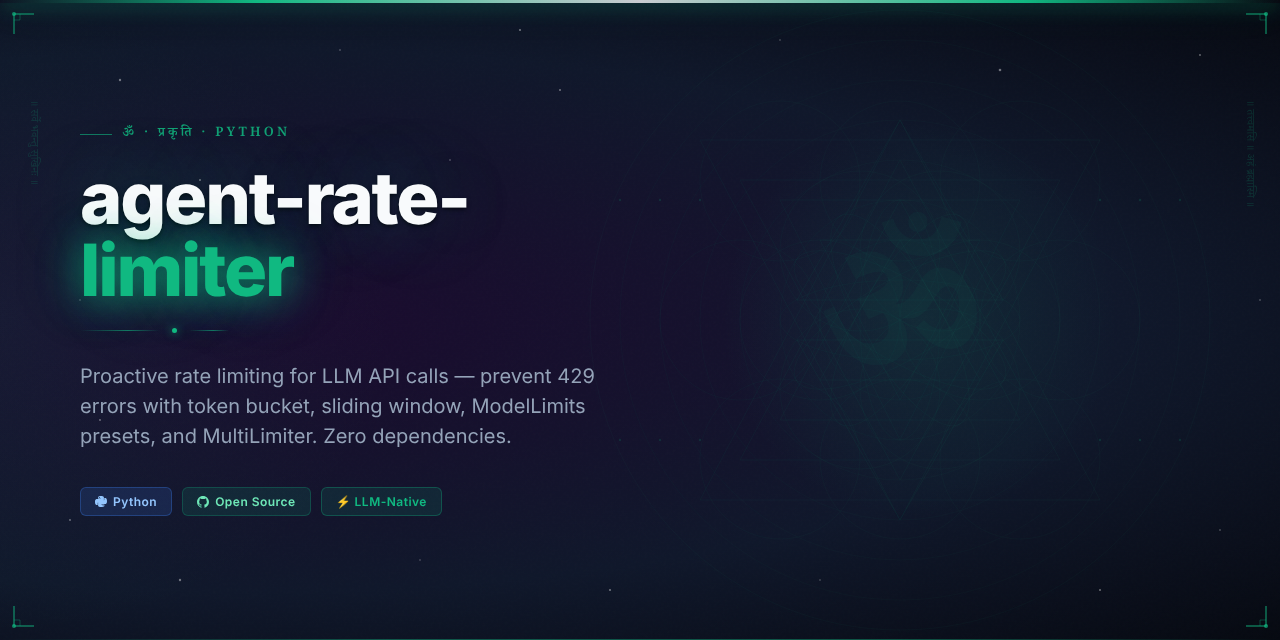
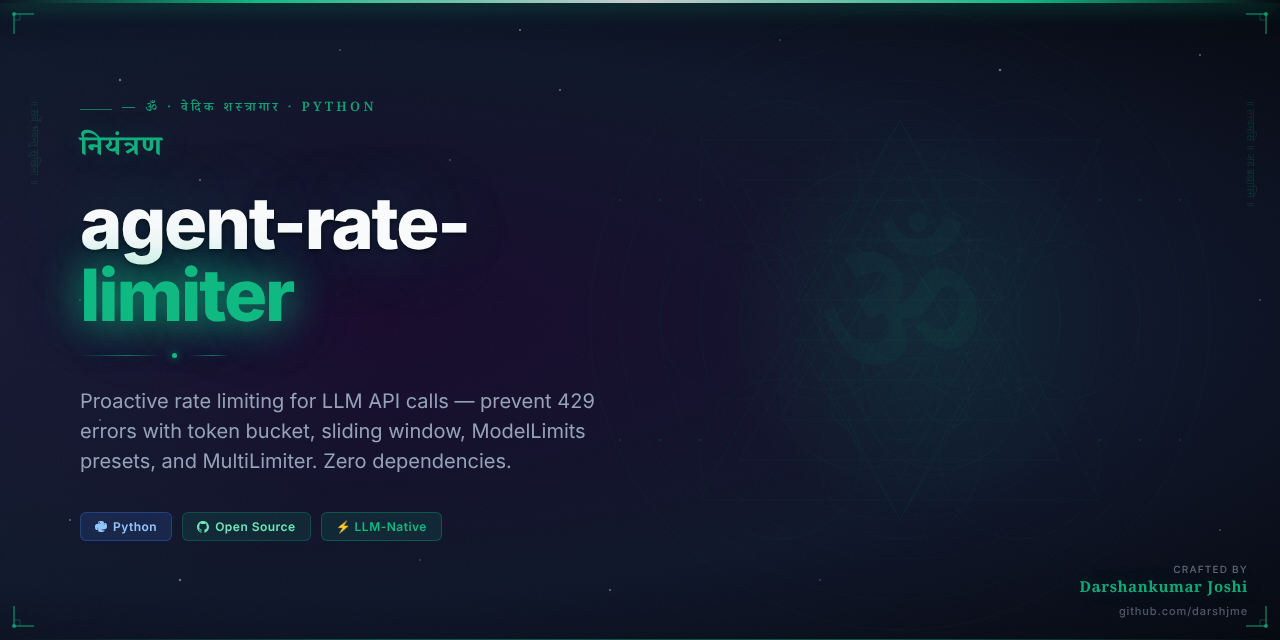
feat: add Vedic Arsenal hero image and updated README
Part of darshjme/arsenal — 100 production-grade Python libraries for LLM agents.
Vedic branding: ancient philosophy meets modern AI engineering.

diff --git a/README.md b/README.md
@@ -1,10 +1,12 @@
 <div align="center">
 
-<img src="assets/agent-rate-limiter-hero.png" alt="agent-rate-limiter — Vedic Arsenal" width="100%" />
+<img src="assets/agent-rate-limiter-hero.png" alt="agent-rate-limiter — Vedic Arsenal by Darshankumar Joshi" width="100%" />
 
 # 🌿 agent-rate-limiter
 
-### *नियंत्रण* — Niyantrana — control over the flow of cosmic energy
+<h3><em>नियंत्रण</em></h3>
+
+> *Niyantrana — control over the flow of cosmic energy*
 
 **Proactive rate limiting for LLM API calls — prevent 429 errors with token bucket, sliding window, ModelLimits presets, and MultiLimiter. Zero dependencies.**
 
@@ -39,6 +41,20 @@ Or clone directly:
 git clone https://github.com/darshjme/agent-rate-limiter.git
 cd agent-rate-limiter
 pip install -e .
+```
+
+## How It Works
+
+```mermaid
+flowchart LR
+    A[API Call] --> B[agent-rate-limiter]
+    B --> C{Tokens Available?}
+    C -- Yes --> D[Allow + Consume]
+    C -- No --> E{Wait or Reject?}
+    E -- Wait --> F[Sleep + Retry]
+    E -- Reject --> G[429 Error]
+    F --> B
+    style B fill:#10b981,color:#fff
 ```
 
 ## Quick Start
@@ -90,7 +106,7 @@ MIT — use freely, build freely.
 
 <div align="center">
 
-**Built with 🌿 by [Darshankumar Joshi](https://github.com/darshjme)**
+**Built with 🌿 by [Darshankumar Joshi](https://github.com/darshjme)** · [@thedarshanjoshi](https://twitter.com/thedarshanjoshi)
 
 *"कर्मण्येवाधिकारस्ते मा फलेषु कदाचन"*
 *Your right is to action alone, never to the fruits thereof.*
